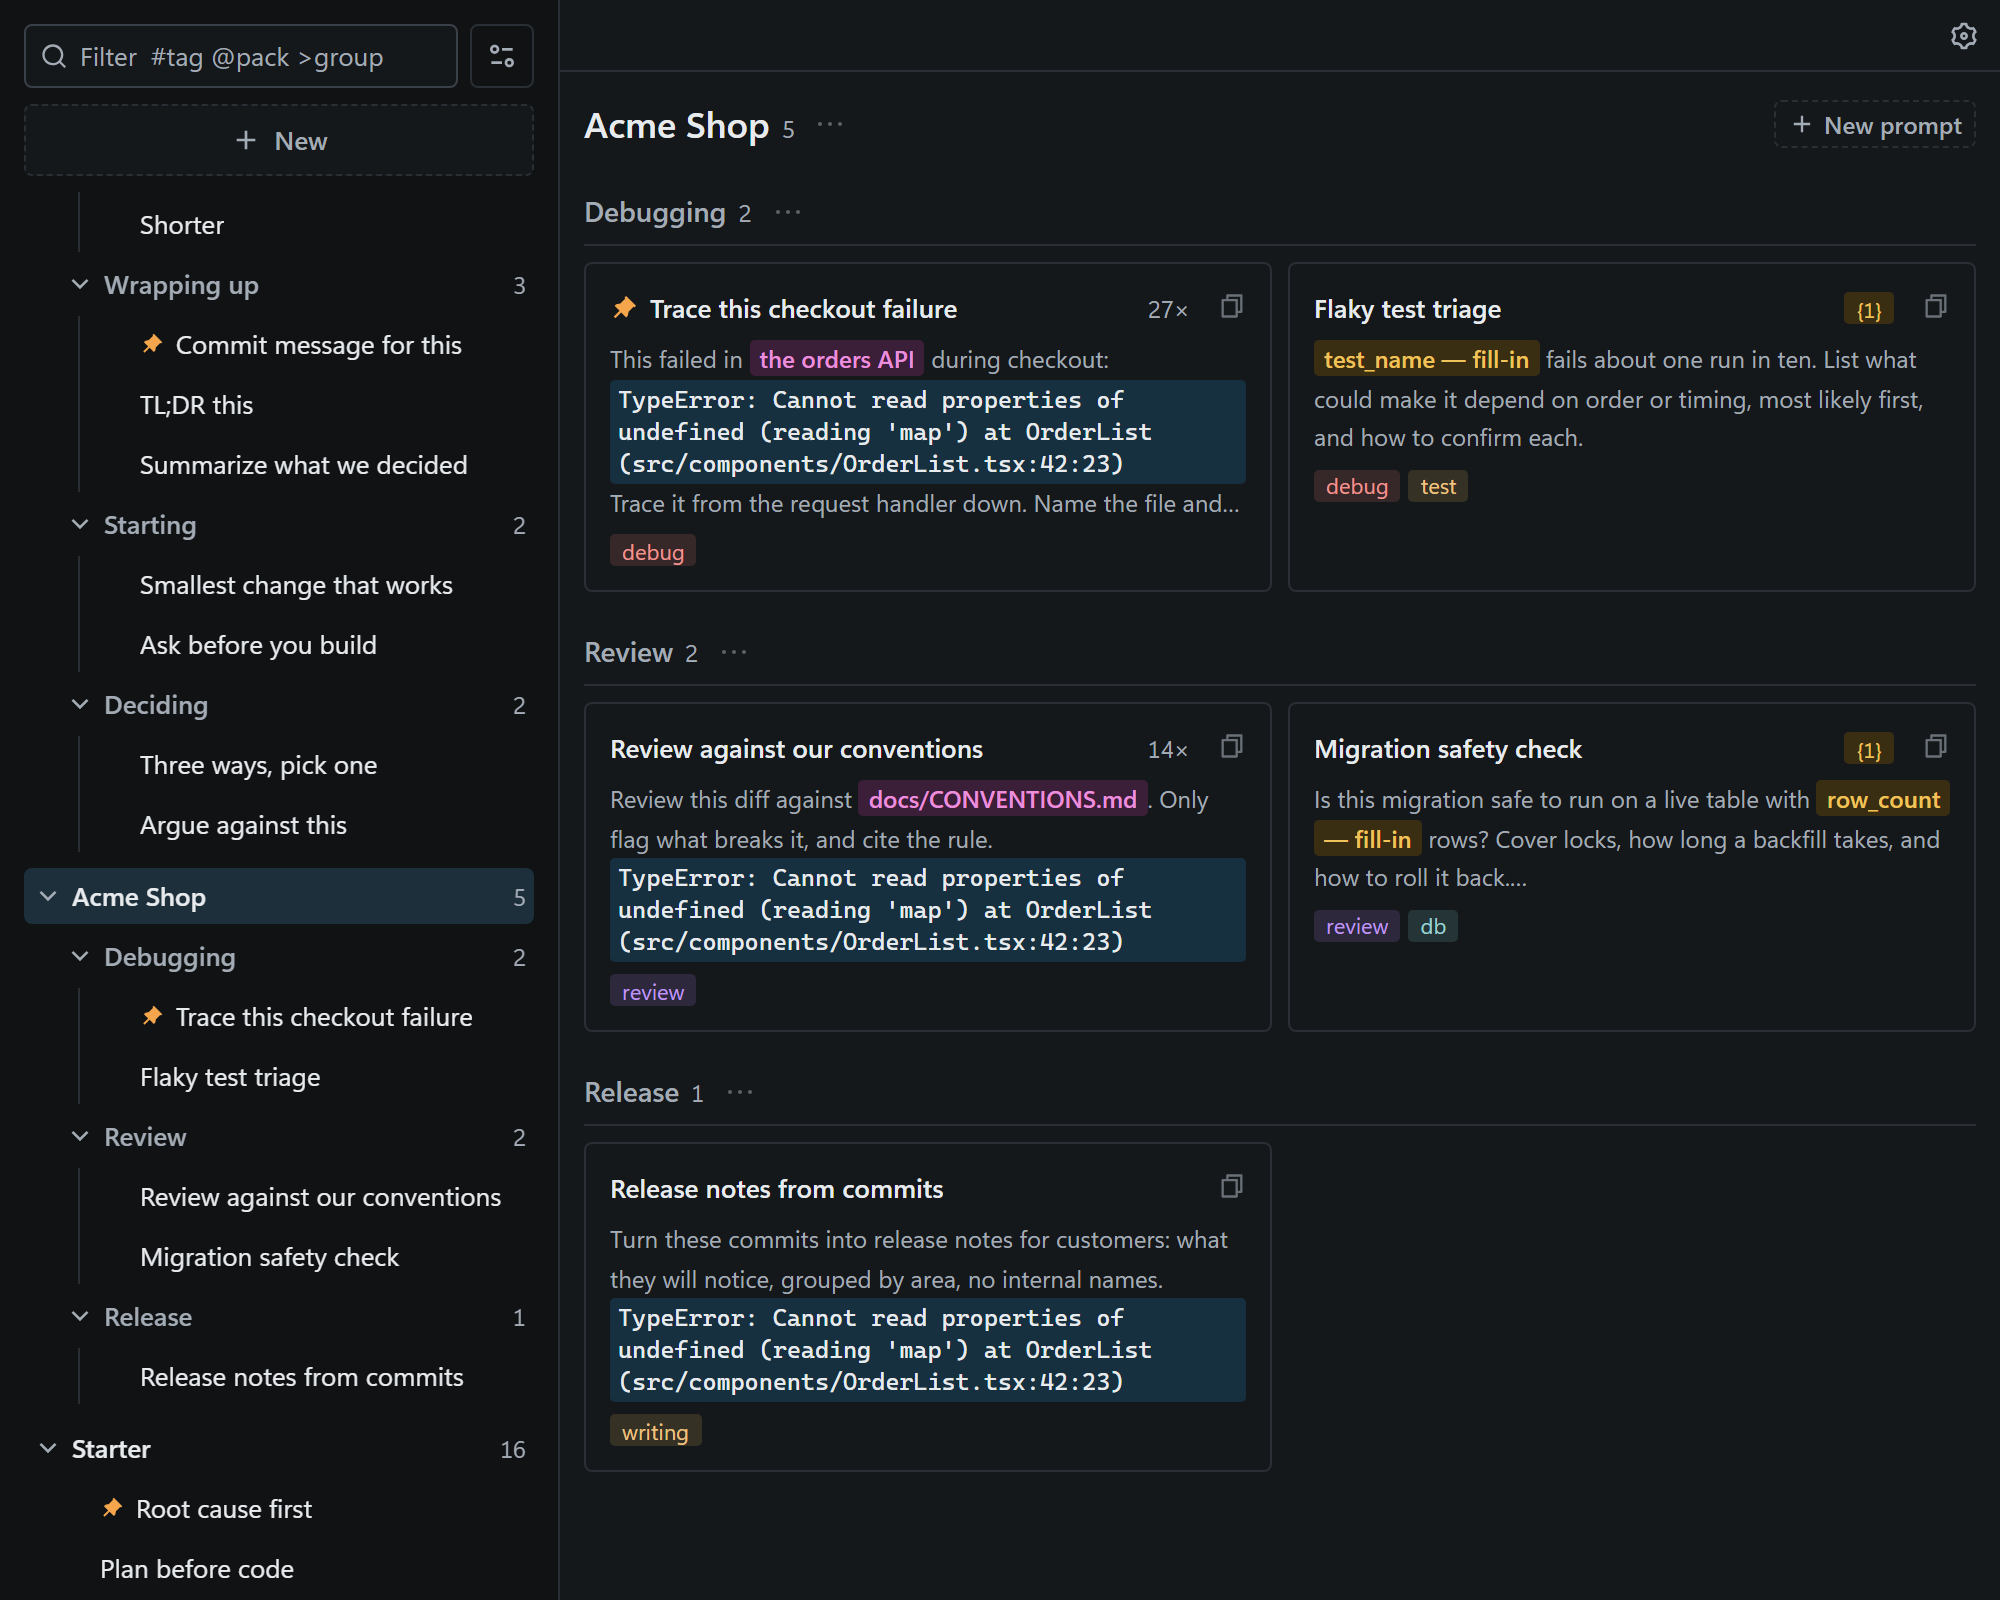
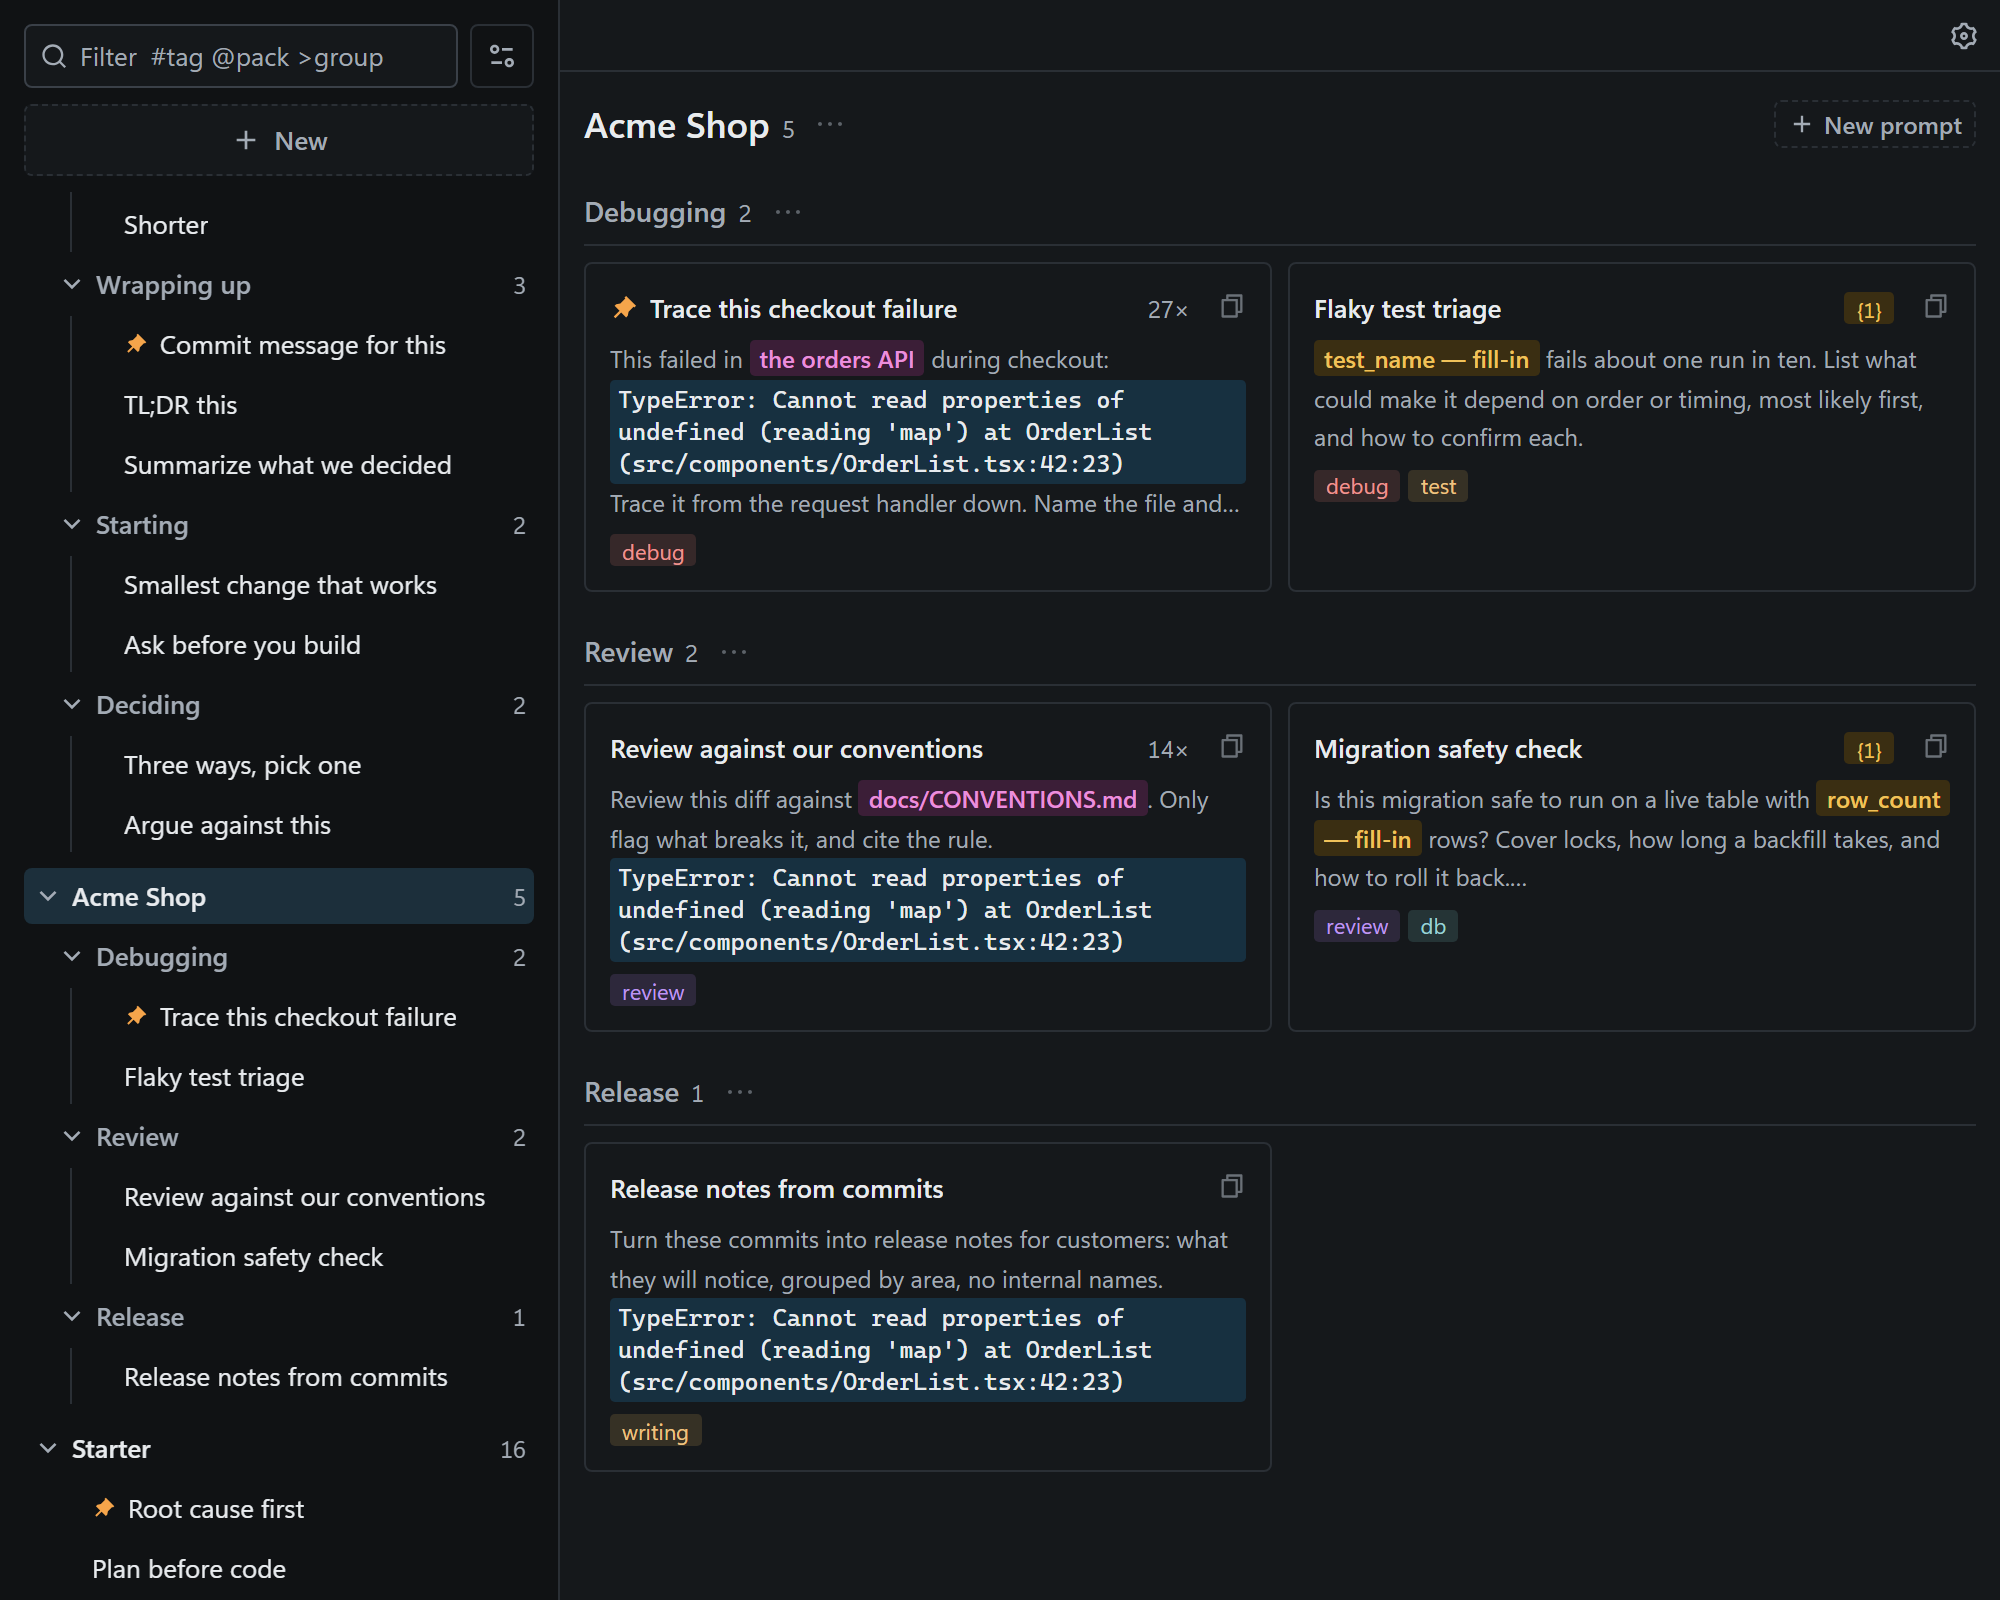
Manager: tighten the sidebar tree's indent
A pack's children sat 16 px in and a group's prompts 8 px past the guide
line; a prompt under a group started 30 px right of its pack's title,
which read as generous beside the popup's flush list. Now 12 and 4 px:
pack title at 24 px from the tree's edge, group name at 36, prompt at 50,
so each level still steps in and the guide line still hangs under the
group's chevron. Screenshots and the social card regenerated.

diff --git a/src/manager/Sidebar.tsx b/src/manager/Sidebar.tsx
@@ -1085,7 +1085,7 @@ export function Sidebar() {
                 <div key={p.name} data-pack={p.name} role="presentation" className="mb-2">
                   {sectionTitle(p.name, p.count, isCollapsed, faded)}
                   {!isCollapsed && (
-                    <div role="group" className="mt-0.5 flex flex-col gap-0.5 pl-4">
+                    <div role="group" className="mt-0.5 flex flex-col gap-0.5 pl-3">
                       {p.ungrouped.map((s) => snipRow(s))}
                       {p.groups.map((g) => {
                         const gc = !q && collapsedGroups.has(groupKey(p.name, g.name))
@@ -1094,7 +1094,7 @@ export function Sidebar() {
                             {groupTitle(p.name, g.name, g.items.length, gc)}
                             {/* The guide line ties a group's prompts to its header */}
                             {!gc && (
-                              <div role="group" className="ml-[11px] flex flex-col gap-0.5 border-l border-border pl-2">
+                              <div role="group" className="ml-[11px] flex flex-col gap-0.5 border-l border-border pl-1">
                                 {g.items.map((s) => snipRow(s))}
                               </div>
                             )}
